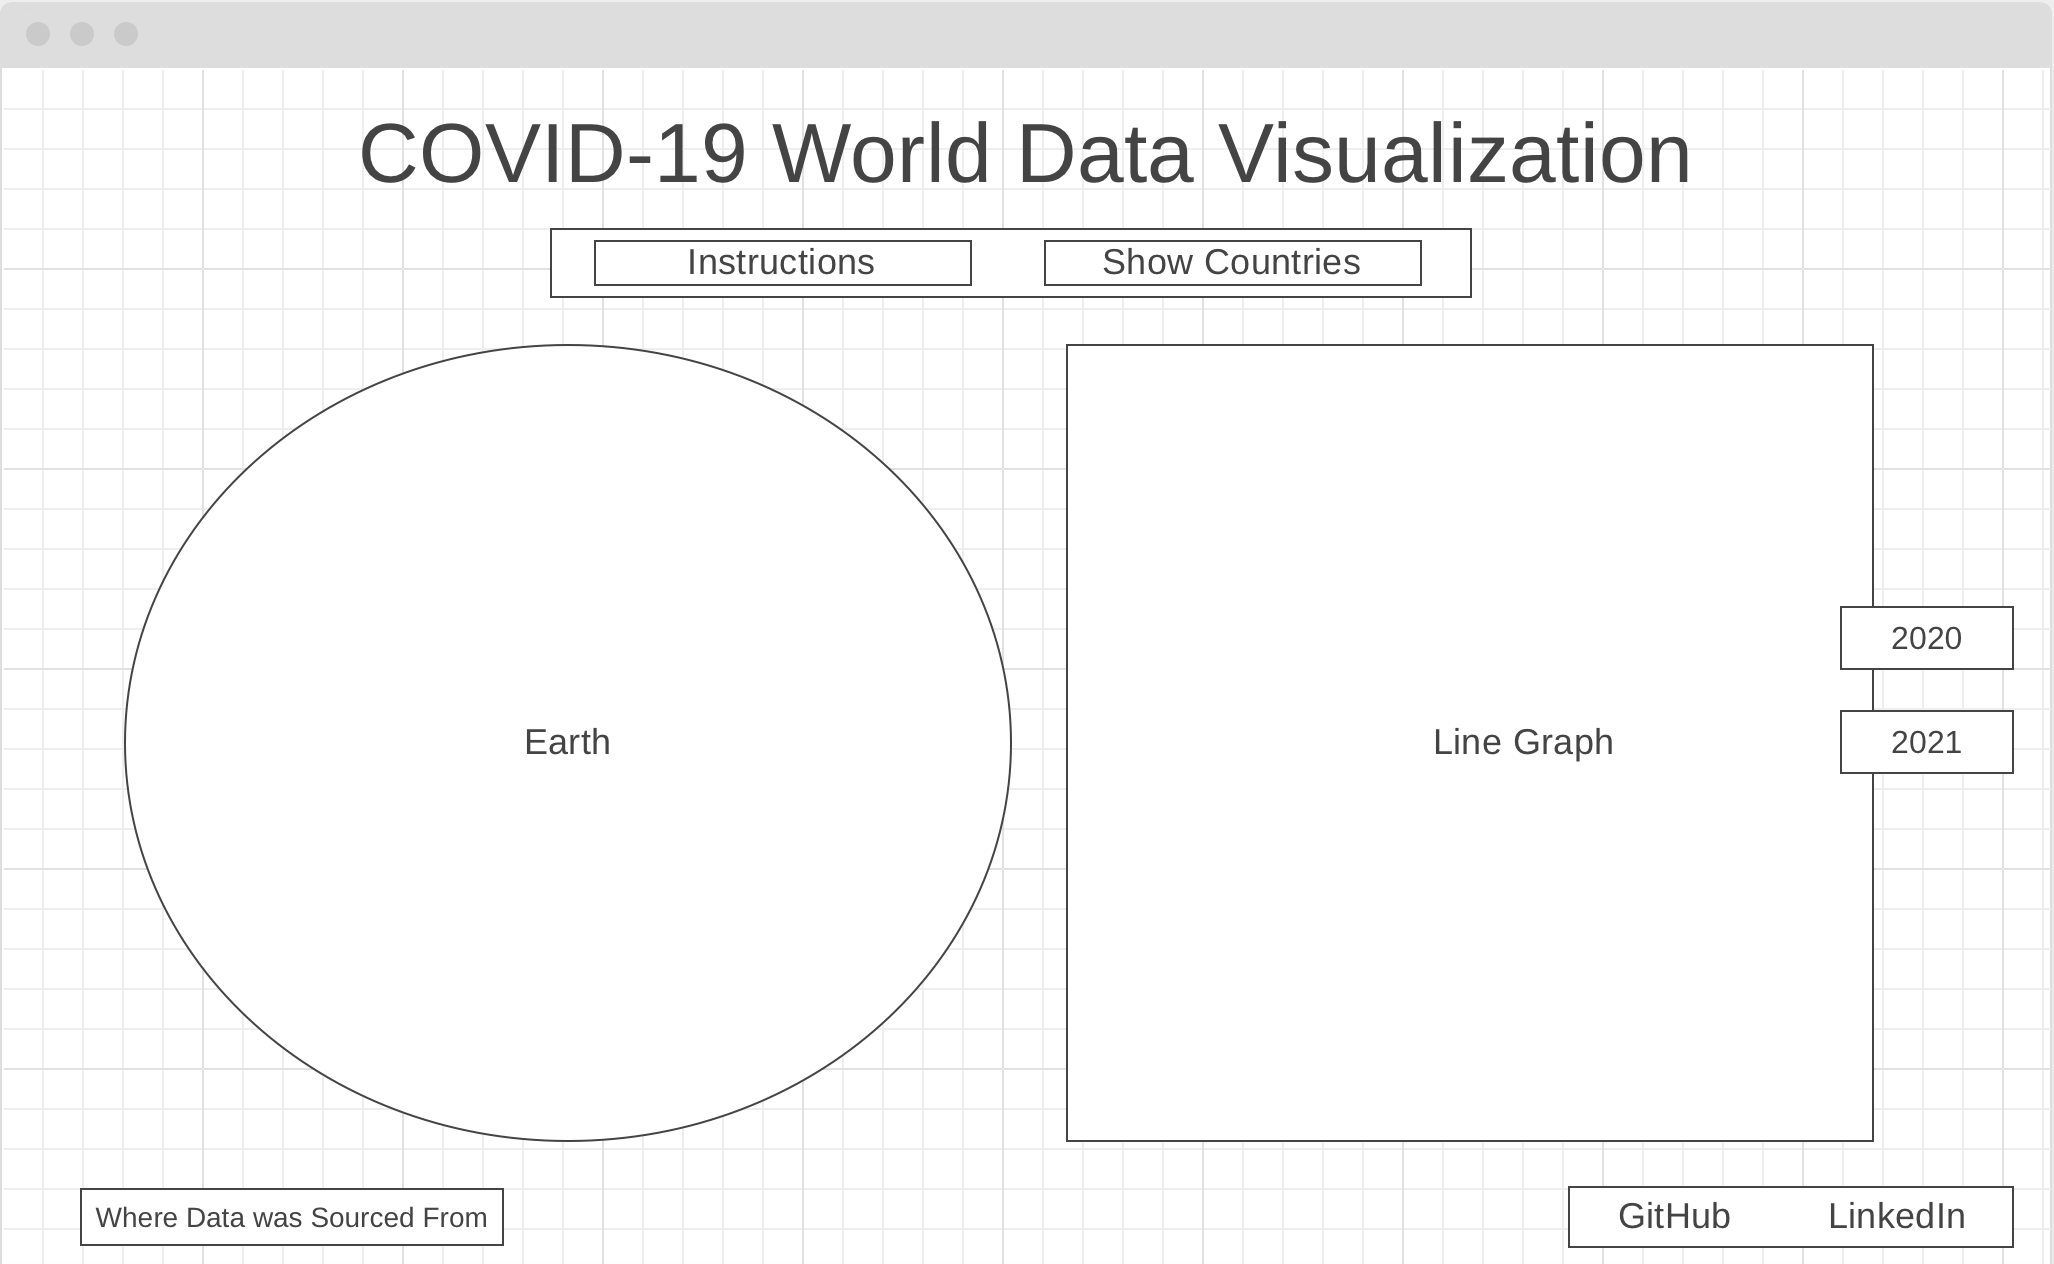
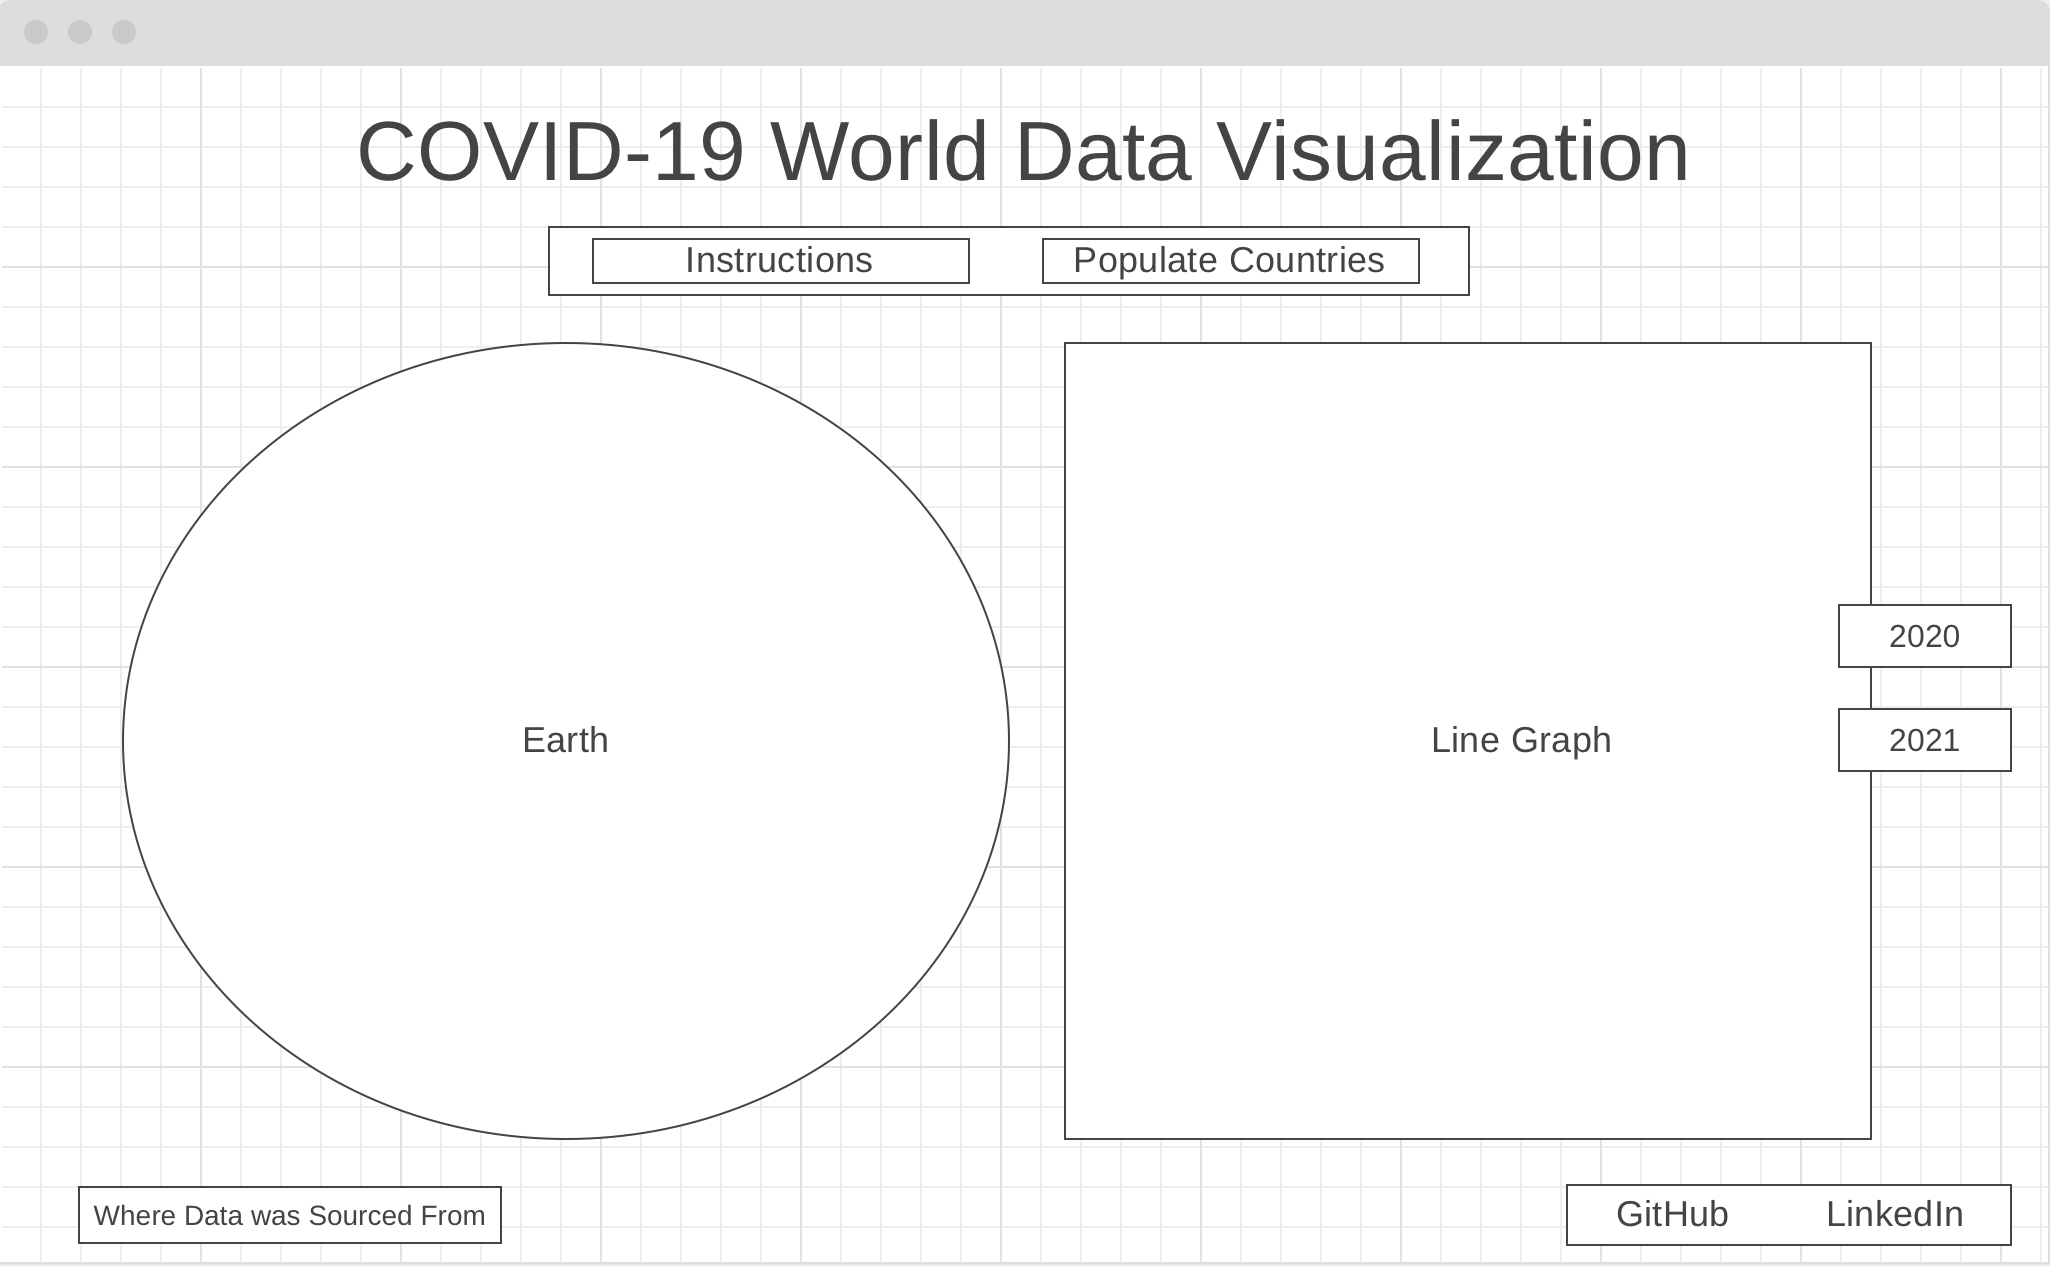
Finish README

diff --git a/README.md b/README.md
@@ -2,7 +2,7 @@
 
 ## Background
 
-[Live Site]: (link will be updated here)
+Live Site: (link will be updated here)
 
 Since its emergence, COVID-19 has greatly impacted the state of the world. This interactive site aims to visualize the rise in COVID-19 cases in different countries around the world, starting from 2020, when the virus first started to spread, to the end of the year 2021. Click on a specific country on the globe to view its rise in cases over the last two years!
 
@@ -23,10 +23,30 @@ In addition, this project will include:
 
  ![](visualization-map-wireframe.png)
 
+ - Nav links include links to this project's Github repo and my LinkedIn
+ - When page is first loaded, instead of a line graph showing, it will be the instructions page
+ - When line graph is loaded, on the right, there will be clickable rectangles used to toggle between years
+ - Below the title, there will be an Instructions button to reshow the Instructions if needed and a button to populate the countries on the globe
+
 ## Technologies, Libraries, APIs
 
+This project will be implemented with the following technologies:
+- [Three.js](https://d3js.org/) to render the world globe
+- [Chart.js](https://www.chartjs.org/) to render data visualization charts
+- `Webpack` and `Babel` to bundle and transpile theh source JavaScript code
+- `npm` to manage project dependencies 
+- Country COVID-19 data obtained through the [JHU CSSE COVID-19 Dataset](https://github.com/CSSEGISandData/COVID-19/tree/master/csse_covid_19_data/csse_covid_19_time_series)
 
 ## Implementation Timeline
 
+- **Thursday Afternoon and Weekend**: Finish setting up project, including getting Webpack up and running. Create world globe and add its functionalities with countries. Import and clean/process data from COVID API. Create instructions box.
+- **Monday**: Create line graph for each country for 2020. Create buttons for 2021 and 2021.
+- **Tuesday**: Create line graph for each country for 2021. 
+- **Wednesday**: Work on CSS styling.
+- **Thursday**: Debug, continue working on styling, and add in nav links for LinkedIn and Github repo. Make site mobile friendly if there's time.
 
 ## Bonus Features
+- Include additional data, ie. number of recoveries and number of deaths per country
+- Have the graphs continue past 2021 into 2022 and continuously be updated 
+- Allow for data comparison between different countries
+- Mobile friendly
